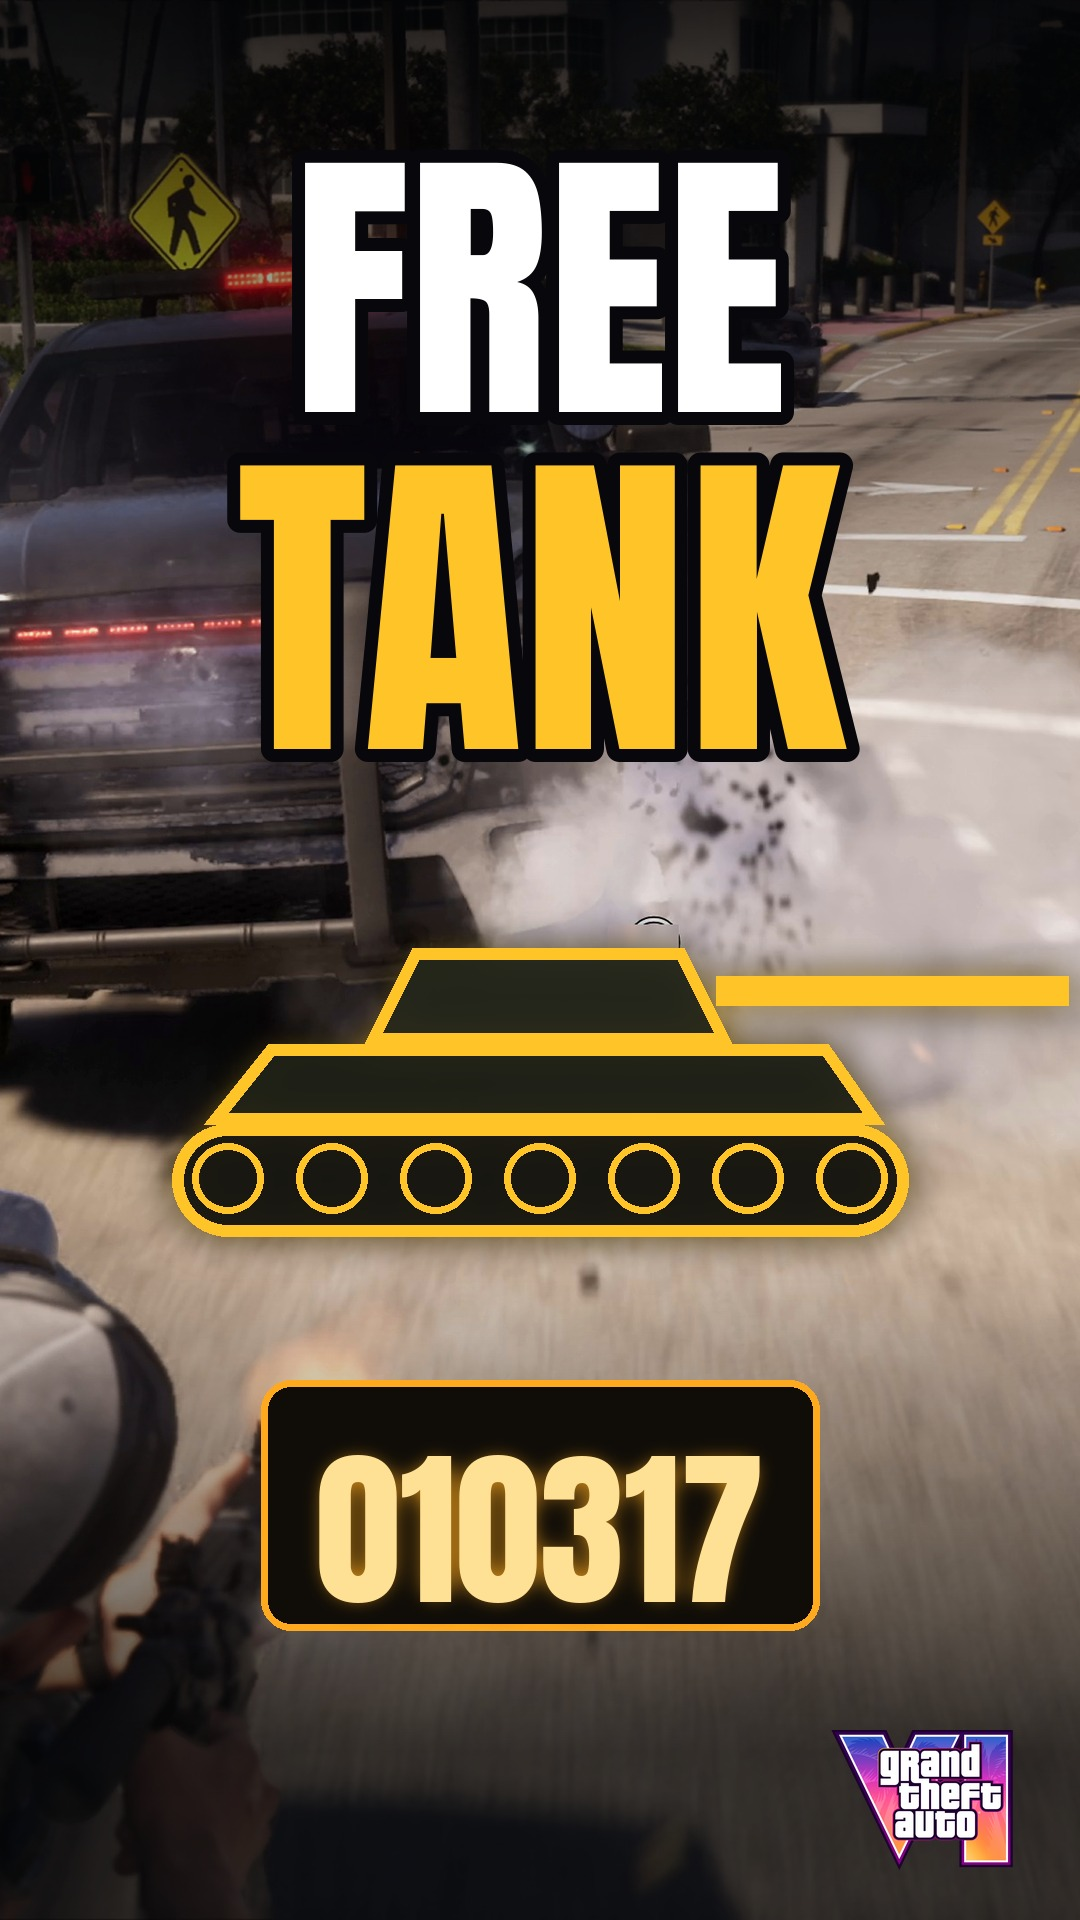
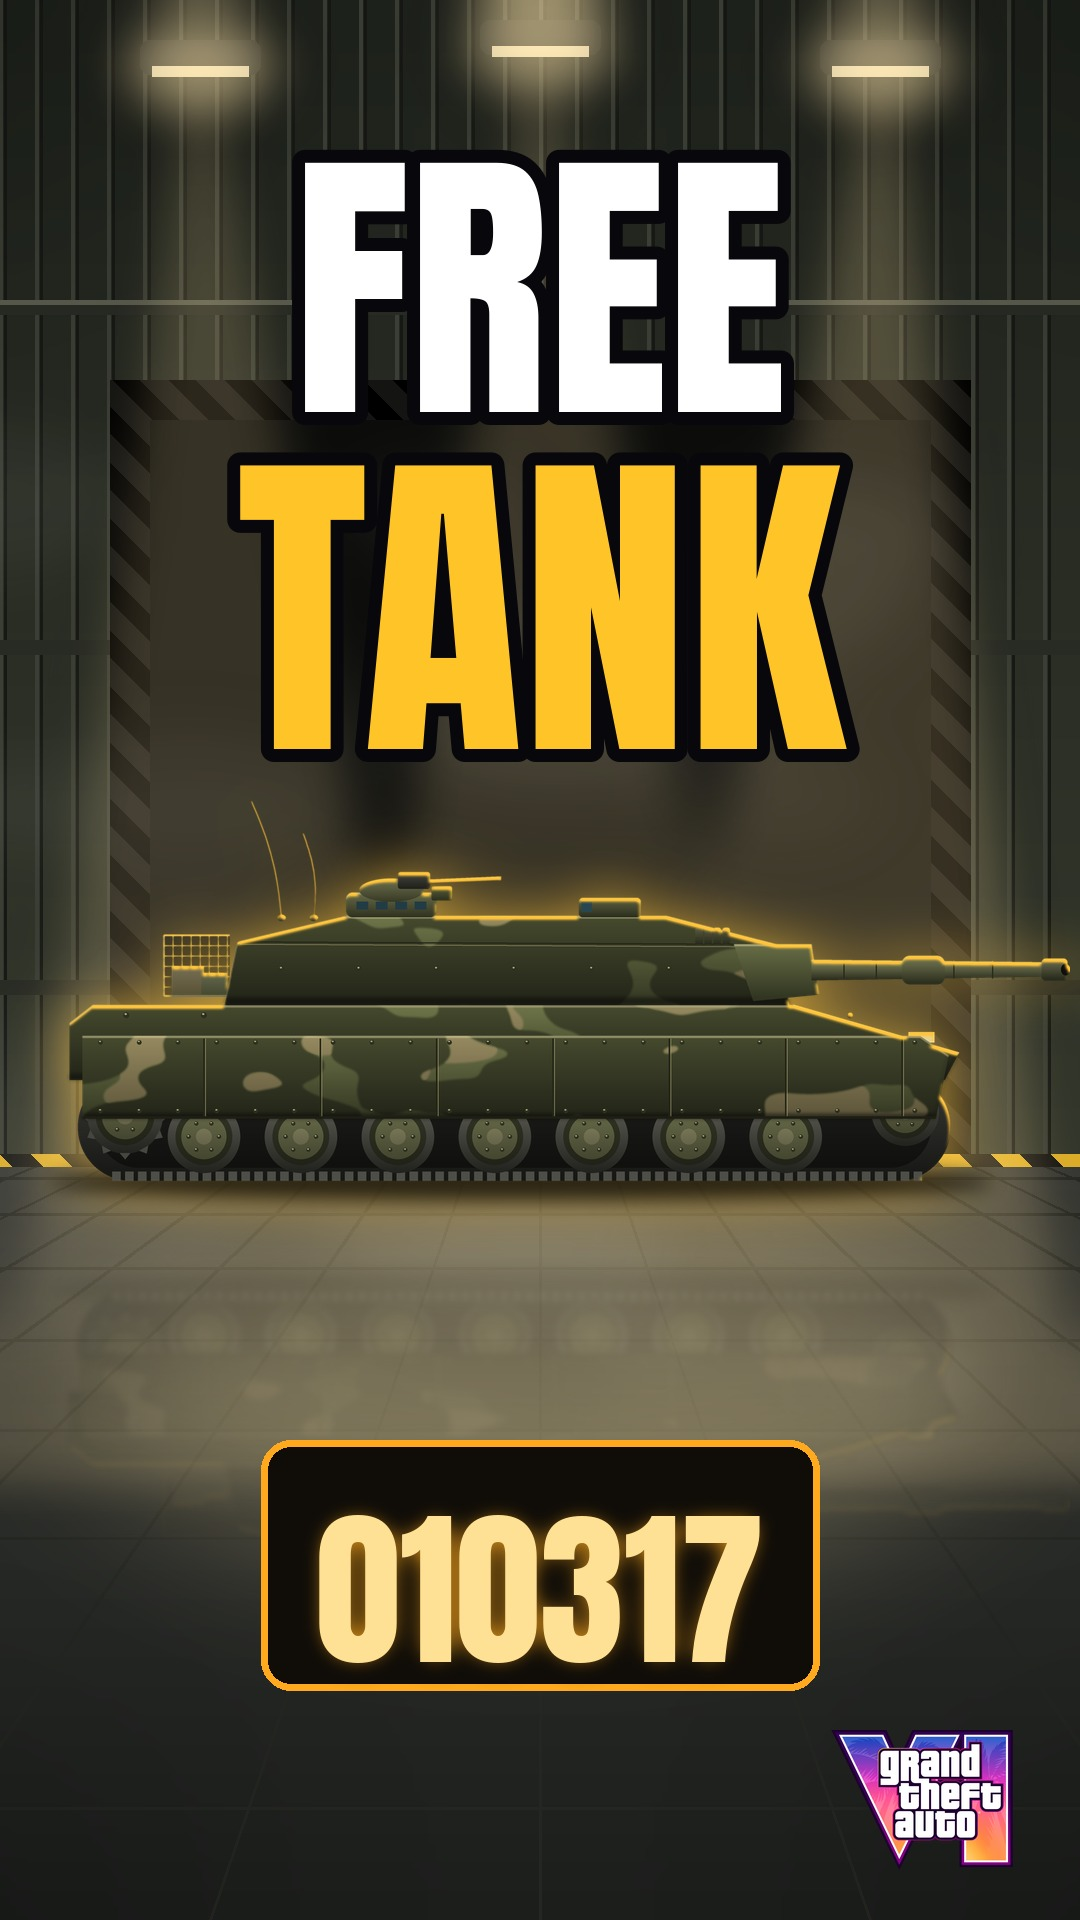
Short 049: detailed tank in our military hangar for all tank scenes; new thumbnail
Claude-Session: https://claude.ai/code/session_01DX4dbwA3bNBQnMT2RJeEkt

diff --git a/production/v049_render.py b/production/v049_render.py
@@ -1,8 +1,11 @@
 """Short 049: GTA 6 free tank (President's Bunker). 'Top Secret file' graphics over official Rockstar clips and
 screenshots: padlock bar, route-line map, amber LED codes synced to the spoken digits, OBSESS -> 085355 morph,
-tank silhouette, hangar reveal, codes recap. Usage: python3 production/v049_render.py <workdir> <out.mp4>"""
+and every tank scene (hook, hangar reveal, ending) set in our own military hangar with the detailed tank
+illustration (tank_art.py + hangar_bg.py): drive-in, cannon fire, sliding doors, roll-in, codes recap. Usage: python3 production/v049_render.py <workdir> <out.mp4>"""
 import sys, json, math, subprocess
 from PIL import Image, ImageDraw, ImageFont, ImageEnhance, ImageFilter
+import random
+sys.path.insert(0, '/home/user/Adds/production'); import hangar_bg as hb
 
 WD, OUT = sys.argv[1], sys.argv[2]
 W, H, FPS = 1080, 1920, 30
@@ -32,6 +35,34 @@ DARK = Image.new('RGB', (W, H), (14, 16, 12)); dd = ImageDraw.Draw(DARK)
 for y in range(0, H, 6): dd.line([(0, y), (W, y)], fill=(18, 21, 15))       # faint scanlines
 for x in range(0, W, 90): dd.line([(x, 0), (x, H)], fill=(22, 26, 18))      # grid = classified-file texture
 DARK = DARK.filter(ImageFilter.GaussianBlur(0.6))
+HANGAR = hb.base(); HANGAR_DIM = Image.blend(HANGAR, Image.new('RGB', (W, H), (14, 16, 12)), 0.45)
+TANK = Image.open(f'{WD}/tank.png').convert('RGBA')
+def tank_w(w): return TANK.resize((int(w), int(w * TANK.height / TANK.width)), Image.LANCZOS)
+T_HOOK, T_PAY, T_END = tank_w(980), tank_w(1040), tank_w(720)
+def put_tank(c, img, x, y, glow=0.55):
+    lay = Image.new('RGBA', (W, H)); lay.alpha_composite(img, (int(x), int(y)))
+    g = lay.getchannel('A').filter(ImageFilter.GaussianBlur(24)).point(lambda v: int(v * glow))
+    c.alpha_composite(Image.merge('RGBA', (Image.new('L', (W, H), 255), Image.new('L', (W, H), 196), Image.new('L', (W, H), 60), g)))
+    c.alpha_composite(hb.reflection(img, x, y)); c.alpha_composite(lay)
+random.seed(3)
+DUST = [dict(x=random.uniform(-0.5, 0.5), vy=random.uniform(-60, -10), vx=random.uniform(-140, -40), r=random.uniform(14, 40), t0=random.uniform(0, 0.8)) for _ in range(40)]
+def dust_cloud(c, cx, cy, k, strength=1.0):
+    lay = Image.new('RGBA', (W, H)); d = ImageDraw.Draw(lay)
+    for p in DUST:
+        q = k - p['t0']
+        if 0 < q < 1.2:
+            x = cx + p['x'] * 400 + p['vx'] * q; y = cy + p['vy'] * q; r = p['r'] * (1 + q)
+            d.ellipse((x - r, y - r, x + r, y + r), fill=(150, 135, 105, int(110 * strength * (1 - q / 1.2))))
+    c.alpha_composite(lay.filter(ImageFilter.GaussianBlur(6)))
+def back_out(x): x = min(max(x, 0), 1); return 1 + 2.7 * (x - 1) ** 3 + 1.7 * (x - 1) ** 2
+def doors(c, open_k):
+    d = ImageDraw.Draw(c)
+    for side in (0, 1):
+        off = open_k * (W / 2 + 20); x0 = -off if side == 0 else W / 2 + off
+        d.rectangle((x0, 0, x0 + W / 2, H), fill=(52, 56, 46))
+        for yy in range(0, H, 70): d.line([(x0, yy), (x0 + W / 2, yy)], fill=(38, 41, 33), width=6)
+        ex0 = x0 + (W / 2 - 40 if side == 0 else 0); d.rectangle((ex0, 0, ex0 + 40, H), fill=(255, 196, 40))
+        for yy in range(0, H, 80): d.polygon([(ex0, yy), (ex0 + 40, yy + 40), (ex0 + 40, yy + 80), (ex0, yy + 40)], fill=(20, 20, 20))
 def clip_frames(path):
     p = subprocess.Popen(['ffmpeg', '-v', 'error', '-i', f'{WD}/{path}', '-f', 'rawvideo', '-pix_fmt', 'rgb24', '-'], stdout=subprocess.PIPE)
     while True:
@@ -55,6 +86,10 @@ def bg_stream():
         elif s['kind'] == 'route':
             ROUTE_T.append((t, t + s['dur'], s['stage']))
             for i in range(n): yield DARK
+        elif s['kind'] == 'hangar':
+            for i in range(n): yield HANGAR
+        elif s['kind'] == 'hangar_dim':
+            for i in range(n): yield HANGAR_DIM
         else:
             for i in range(n): yield DARK
         t += n / FPS
@@ -180,10 +215,24 @@ def overlay(c, beat, t):
                 if said: mk, txt, col = said[-1]; pill(c, txt, 1550, col, 80, t - M[mk])   # only the word being said
             locks(c, t); return
     if beat == 'hook':
-        k = ease(t / 0.35); tank(c, W / 2, 1000, 1.25 * (0.85 + 0.15 * k), GOLD, int(190 + 50 * k))   # visible from frame 1
+        c.alpha_composite(hb.lights(t)); FIRE = LINES[1]['s']
+        k = ease(0.35 + t / 0.9); x = (W - T_HOOK.width) / 2 - (1 - k) * (W + 200)          # already entering on frame 1
+        y = 930 + (3 * math.sin(t * 40) if t > 0.6 else 0)
+        rec = 26 * math.exp(-(t - FIRE) * 10) if t >= FIRE else 0
+        sh = (random.uniform(-14, 14), random.uniform(-10, 10)) if FIRE <= t < FIRE + 0.25 else (0, 0)
+        put_tank(c, T_HOOK, x - rec + sh[0], y + sh[1])
+        if t < 1.3: dust_cloud(c, x + T_HOOK.width * 0.15, y + T_HOOK.height * 0.9, t + 0.3)
+        if t >= FIRE:
+            k2 = t - FIRE; mx, my = x + T_HOOK.width * 0.995 - rec, y + T_HOOK.height * 0.43
+            lay = Image.new('RGBA', (W, H)); dl = ImageDraw.Draw(lay)
+            if k2 < 0.18:
+                r = 120 * (1 - k2 / 0.18) + 40; dl.ellipse((mx - r * .4, my - r * .6, mx + r * 1.6, my + r * .6), fill=(255, 230, 150, 240)); dl.ellipse((mx, my - r * .3, mx + r, my + r * .3), fill=(255, 255, 240, 255))
+            for j in range(10):
+                kk = k2 * (0.6 + j * 0.08); r = 30 + 160 * kk; sx = mx + 60 + 260 * kk * (0.5 + j / 12)
+                dl.ellipse((sx - r, my - r - 40 * kk * j / 5, sx + r, my + r - 40 * kk * j / 5), fill=(190, 185, 170, int(150 * max(0, 1 - k2 / 1.8))))
+            c.alpha_composite(lay.filter(ImageFilter.GaussianBlur(10)))
         pop(c, 'FREE TANK', 210, 420, GOLD, t + 1.0)
         if t >= LINES[2]['s']: pill(c, 'CODE 3 = ???', 690, RED, 66, t - LINES[2]['s'], ang=-3)
-        stamp(c, 'TOP SECRET', 1180, 6, RED, 64, t - 1.0)
     elif beat == 'steps':
         if t < M['island'] - 0.6 or lt < 3.4: pop(c, 'DOWNTOWN', 140, 400, WHITE, lt - 1.2); pill(c, 'WAR MEMORIAL · ASK THE OLD MAN', 590, (20, 90, 160), 44, lt - 1.4)
         if lt >= 3.5: pop(c, 'LITTLE CUBA', 140, 400, GOLD, lt - 3.5)
@@ -220,28 +269,37 @@ def overlay(c, beat, t):
         if t >= M['morph']: led(c, digits_shown('c3', 6, t), 6, 760, letters='OBSESS')
         tag(c, 'OBSESS on a calculator screen · VGC')
     elif beat == 'payoff':
-        if t < M['open']:
+        op = M['open']; ok = ease((t - op) / 0.8) if t >= op else 0
+        c.alpha_composite(hb.lights(t, 0.5 + 0.7 * ok))
+        if t >= op:
+            k = t - op; kr = back_out(k / 1.0); x = (W - T_PAY.width) / 2 - (1 - kr) * (W + 300)
+            bounce = 10 * math.sin((k - 1.0) * 18) * math.exp(-(k - 1.0) * 5) if k > 1.0 else 0
+            y = 1000 - T_PAY.height / 2 + bounce + (2 * math.sin(k * 40) if k < 1.0 else 0)
+            put_tank(c, T_PAY, x, y, 0.6); dust_cloud(c, x + T_PAY.width * 0.2, y + T_PAY.height * 0.9, k, 1.2)
+        doors(c, ok)
+        dh = ImageDraw.Draw(c); fh = I(28); lab = 'WANTED INTEL · GTA 6 SECRETS'; wh = dh.textlength(lab, font=fh)   # header stays above the doors
+        dh.rounded_rectangle(((W - wh) / 2 - 24, 70, (W + wh) / 2 + 24, 122), 26, fill=(220, 35, 45, 225)); dh.text(((W - wh) / 2, 78), lab, font=fh, fill=WHITE)
+        if t < op:
             k = t - M['button']; r = 150 * (1 - 0.12 * math.sin(math.pi * min(1, max(0, (k - 0.3) / 0.25))))
-            d.ellipse((W / 2 - r - 14, 820 - r - 14, W / 2 + r + 14, 820 + r + 14), fill=(40, 40, 40), outline=WHITE, width=6)
-            d.ellipse((W / 2 - r, 820 - r, W / 2 + r, 820 + r), fill=RED); text_c(c, 'BIG RED BUTTON', A(84), 400, WHITE)
+            d = ImageDraw.Draw(c); d.ellipse((W / 2 - r - 14, 900 - r - 14, W / 2 + r + 14, 900 + r + 14), fill=(40, 40, 40), outline=WHITE, width=6)
+            d.ellipse((W / 2 - r, 900 - r, W / 2 + r, 900 + r), fill=RED); text_c(c, 'BIG RED BUTTON', A(84), 400, WHITE)
         else:
-            k = t - M['open']
-            rays = Image.new('RGBA', (W, H)); rd = ImageDraw.Draw(rays)
-            for j in range(14):
-                a = j * math.pi / 7 + k * 0.4; rd.polygon([(W / 2, 960), (W / 2 + 1400 * math.cos(a - 0.08), 960 + 1400 * math.sin(a - 0.08)), (W / 2 + 1400 * math.cos(a + 0.08), 960 + 1400 * math.sin(a + 0.08))], fill=(255, 200, 80, 55))
-            c.alpha_composite(rays.filter(ImageFilter.GaussianBlur(8)))
-            if k < 0.35: c.alpha_composite(Image.new('RGBA', (W, H), (255, 215, 110, int(230 * (1 - k / 0.35)))))
-            tank(c, W / 2, 960, 1.4 * (0.7 + 0.3 * ease(k * 2)), GOLD, 255)
+            k = t - op
+            if k < 0.35: c.alpha_composite(Image.new('RGBA', (W, H), (255, 215, 110, int(220 * (1 - k / 0.35)))))
             pop(c, 'HANGAR OPEN', 150, 400, GOLD, k)
-            if k > 0.5: pill(c, 'TANK + COLD WAR 556 RIFLE', 1180, (30, 110, 50), 54, k - 0.5)
+            if k > 1.1: pill(c, 'TANK + COLD WAR 556 RIFLE', 1290, (30, 110, 50), 54, k - 1.1)
     elif beat == 'end':
-        if lt < 1.8: pop(c, 'LOST IT?', 170, 420, WHITE, lt); pill(c, 'THE BUNKER GIVES YOU ANOTHER', 640, (20, 90, 160), 46, lt - 0.4)
-        if t >= M['forever']:
+        c.alpha_composite(hb.lights(t, 0.5))
+        if t < M['forever']:
+            put_tank(c, T_PAY, (W - T_PAY.width) / 2, 1000 - T_PAY.height / 2, 0.45)
+            pop(c, 'LOST IT?', 170, 420, WHITE, lt); pill(c, 'THE BUNKER GIVES YOU ANOTHER', 640, (20, 90, 160), 46, lt - 0.4)
+        else:
             k = t - M['forever']; pop(c, 'FREE TANKS FOREVER', 120, 400, GOLD, k)
-            d.rounded_rectangle((90, 620, W - 90, 1010), 30, fill=(10, 10, 10, 215), outline=GOLD, width=6)
-            text_c(c, 'ALL 3 CODES', A(64), 650, GOLD, 6)
+            put_tank(c, T_END, (W - T_END.width) / 2, 600 - 40 * (1 - ease(k * 2)), 0.4)
+            d = ImageDraw.Draw(c); d.rounded_rectangle((90, 980, W - 90, 1370), 30, fill=(10, 10, 10, 225), outline=GOLD, width=6)
+            text_c(c, 'ALL 3 CODES', A(64), 1010, GOLD, 6)
             for i, code in enumerate(['010317', '2975', '085355']):
-                text_c(c, f'{i + 1}.  {code}', A(84), 735 + i * 88, (255, 225, 150), 6)
+                text_c(c, f'{i + 1}.  {code}', A(84), 1095 + i * 88, (255, 225, 150), 6)
     if beat not in ('promise',): locks(c, t)
 
 def captions(c, t):

diff --git a/production/thumb_v049.py b/production/thumb_v049.py
@@ -1,32 +1,24 @@
-"""Thumbnail 049 (9:16): official Extended Look shootout frame (police SUV under fire, HUD crosshair removed), gold tank silhouette,
-'FREE TANK', amber LED '010317', official VI logo. Usage: thumb_v049.py <frame.png> <out.jpg>"""
+"""Thumbnail 049 (9:16): our military hangar (hangar_bg.py) with the detailed tank (tank_art.py), 'FREE TANK',
+amber LED '010317', official VI logo. Usage: thumb_v049.py <tank.png> <out.jpg>"""
 import sys
 from PIL import Image, ImageDraw, ImageFont, ImageEnhance, ImageFilter
-SRC, OUT = sys.argv[1], sys.argv[2]; W, H = 1080, 1920
+TANK, OUT = sys.argv[1], sys.argv[2]; W, H = 1080, 1920
 A = lambda n: ImageFont.truetype('/home/user/Adds/remotion-overlays/public/fonts/Anton-Regular.ttf', int(n))
 GOLD, AMBER = (255, 196, 40), (255, 170, 30)
-im = Image.open(SRC).convert('RGB'); cx = int(0.47 * im.width); w = int(im.height * 9 / 16)
-bg = im.crop((cx - w // 2, 0, cx + w // 2, im.height)).resize((W, H), Image.LANCZOS)
-bg = ImageEnhance.Contrast(bg).enhance(1.1); bg = ImageEnhance.Color(bg).enhance(1.15)
-c = bg.convert('RGBA'); sh = Image.new('L', (W, H)); sd = ImageDraw.Draw(sh)
-for y in range(H): sd.line([(0, y), (W, y)], fill=int(170 * (1 - y / 700)) if y < 700 else int(190 * min(1, max(0, (y - 1250) / 500))))
-c = Image.composite(Image.new('RGBA', (W, H), (6, 8, 10, 255)), c, sh); d = ImageDraw.Draw(c)
+sys.path.insert(0, '/home/user/Adds/production'); import hangar_bg as hb
+c = hb.base(stencil=False).convert('RGBA'); c.alpha_composite(hb.lights(1.3, 1.2)); d = ImageDraw.Draw(c)
 def word(t, y, size, fill):
     f = A(size); w = d.textlength(t, font=f)
     if w > W - 60: f = A(size * (W - 60) / w); w = d.textlength(t, font=f)
     d.text(((W - w) / 2 + 8, y + 10), t, font=f, fill=(0, 0, 0, 150)); d.text(((W - w) / 2, y), t, font=f, fill=fill, stroke_width=13, stroke_fill=(8, 8, 12))
 word('FREE', 70, 290, (255, 255, 255)); word('TANK', 360, 330, GOLD)
-# gold tank silhouette with glow
-lay = Image.new('RGBA', (W, H)); ld = ImageDraw.Draw(lay); cx, cy, s = W / 2, 1060, 1.6
-P = lambda pts: [(cx + x * s, cy + y * s) for x, y in pts]
-ld.rounded_rectangle((cx - 230 * s, cy + 40 * s, cx + 230 * s, cy + 110 * s), int(35 * s), fill=(20, 20, 16, 235), outline=GOLD, width=12)
-for i in range(7): ld.ellipse((cx + (-195 + i * 65) * s - 22 * s, cy + 52 * s, cx + (-195 + i * 65) * s + 22 * s, cy + 96 * s), outline=GOLD, width=7)
-ld.polygon(P([(-210, 40), (-170, -10), (180, -10), (215, 40)]), fill=(28, 30, 22, 235), outline=GOLD, width=12)
-ld.polygon(P([(-110, -10), (-80, -70), (90, -70), (120, -10)]), fill=(34, 36, 26, 235), outline=GOLD, width=12)
-ld.rectangle((cx + 110 * s, cy - 52 * s, cx + 330 * s, cy - 34 * s), fill=GOLD)
-glow = lay.filter(ImageFilter.GaussianBlur(18)); c.alpha_composite(glow); c.alpha_composite(lay); d = ImageDraw.Draw(c)
+tank = Image.open(TANK).convert('RGBA'); tank = tank.resize((1060, int(1060 * tank.height / tank.width)), Image.LANCZOS)
+x, y = (W - tank.width) // 2, 1240 - tank.height
+g = Image.new('RGBA', (W, H)); g.alpha_composite(tank, (x, y)); gl = g.getchannel('A').filter(ImageFilter.GaussianBlur(26)).point(lambda v: int(v * .65))
+c.alpha_composite(Image.merge('RGBA', (Image.new('L', (W, H), 255), Image.new('L', (W, H), 196), Image.new('L', (W, H), 60), gl)))
+c.alpha_composite(hb.reflection(tank, x, y)); c.alpha_composite(g); d = ImageDraw.Draw(c)
 # amber LED code panel
-f = A(170); code = '010317'; pw = d.textlength(code, font=f) + 110; x0 = (W - pw) / 2; y0 = 1380
+f = A(170); code = '010317'; pw = d.textlength(code, font=f) + 110; x0 = (W - pw) / 2; y0 = 1440
 d.rounded_rectangle((x0, y0, x0 + pw, y0 + 250), 30, fill=(16, 13, 8, 240), outline=AMBER, width=7)
 g = Image.new('RGBA', (W, H)); ImageDraw.Draw(g).text((x0 + 55, y0 + 22), code, font=f, fill=AMBER + (255,)); c.alpha_composite(g.filter(ImageFilter.GaussianBlur(12)))
 d = ImageDraw.Draw(c); d.text((x0 + 55, y0 + 22), code, font=f, fill=(255, 225, 150))

diff --git a/production/v049_clips.py b/production/v049_clips.py
@@ -8,7 +8,7 @@ def shot(n): return glob.glob(SH+'**/'+n,recursive=True)[0]
 B={b['beat']:b for b in json.load(open('vo.json'))['beats']}
 TAIL=1.2
 # per beat: list of items; durations: 'auto' items share what is left after the fixed ones
-PLAN={'hook':[('clip',EL,847.3,852.8,.55,False,'auto')],                       # shootout, police SUV flips
+PLAN={'hook':[('hangar',None,None,None,None,None,'auto')],                     # our military hangar (tank scene)
  'promise':[('route',0,None,None,None,None,'auto')],
  'steps':[('route',1,None,None,None,None,1.2),('still','Vice_City_10.jpg',.45,None,None,None,2.3),('still','Vice_City_09.jpg',.5,None,None,None,'auto')],
  'code1':[('route',2,None,None,None,None,1.0),('still','Leonida_Keys_01.jpg',.5,None,None,None,'auto')],
@@ -17,8 +17,8 @@ PLAN={'hook':[('clip',EL,847.3,852.8,.55,False,'auto')],                       #
  'code2':[('clip',EL,1336.0,1342.0,.5,False,'auto')],                         # dark office
  'obsess':[('dark',None,None,None,None,None,'auto')],
  'code3':[('route',3,None,None,None,None,1.0),('still','Mount_Kalaga_National_Park_03.jpg',.5,None,None,None,'auto')],
- 'payoff':[('dark',None,None,None,None,None,'auto')],                         # hangar reveal is a graphic (no official bunker footage)
- 'end':[('clip',EL,1545.2,1548.3,.5,False,'auto')]}                           # night skyline
+ 'payoff':[('hangar',None,None,None,None,None,'auto')],                       # hangar doors open, tank rolls in
+ 'end':[('hangar_dim',None,None,None,None,None,'auto')]}                      # dimmed hangar + codes recap
 P=['-http_proxy',os.environ['HTTPS_PROXY'],'-ca_file','/root/.ccr/ca-bundle.crt']
 segs=[]
 for beat,items in PLAN.items():
@@ -34,5 +34,5 @@ for beat,items in PLAN.items():
             print(beat,'clip',round(e-s,2),'->',round(dur,2),'speed',round(1/k,2))
         elif kind=='still': segs.append(dict(beat=beat,kind='still',path=shot(it[1]),cx=it[2],dur=round(dur,3)))
         elif kind=='route': segs.append(dict(beat=beat,kind='route',stage=it[1],dur=round(dur,3)))
-        else: segs.append(dict(beat=beat,kind='dark',dur=round(dur,3)))
+        else: segs.append(dict(beat=beat,kind=kind,dur=round(dur,3)))
 json.dump(segs,open('segs.json','w'),indent=1)

diff --git a/production/hangar_bg.py b/production/hangar_bg.py
@@ -7,7 +7,7 @@ import math, random
 from PIL import Image, ImageDraw, ImageFilter, ImageFont
 W, H = 1080, 1920; FLOOR_Y = 1160; VP = (540, 900)
 ANTON = '/home/user/Adds/remotion-overlays/public/fonts/Anton-Regular.ttf'
-def base():
+def base(stencil=True):
     c = Image.new('RGB', (W, H), (18, 20, 17)); d = ImageDraw.Draw(c)
     for y in range(FLOOR_Y):                                         # back wall: vertical gradient
         k = y / FLOOR_Y; d.line([(0, y), (W, y)], fill=(int(30 + 22 * k), int(34 + 22 * k), int(28 + 16 * k)))
@@ -25,8 +25,9 @@ def base():
     for side in ((fx0 - 40, fy0, fx0, FLOOR_Y), (fx1, fy0, fx1 + 40, FLOOR_Y), (fx0 - 40, fy0 - 40, fx1 + 40, fy0)): md.rectangle(side, fill=255)
     c = Image.composite(stripe, c, m); d = ImageDraw.Draw(c)
     d.rectangle((fx0, fy0, fx1, FLOOR_Y), fill=(12, 13, 11))                        # dark opening behind the tank
-    f = ImageFont.truetype(ANTON, 40); t = 'HANGAR 02  ·  RESTRICTED AREA'; w = d.textlength(t, font=f)
-    d.text(((W - w) / 2, 328), t, font=f, fill=(190, 160, 60))        # stencil sits under the padlock bar
+    if stencil:
+        f = ImageFont.truetype(ANTON, 40); t = 'HANGAR 02  ·  RESTRICTED AREA'; w = d.textlength(t, font=f)
+        d.text(((W - w) / 2, 328), t, font=f, fill=(190, 160, 60))        # stencil sits under the padlock bar
     # concrete floor with perspective joints
     for y in range(FLOOR_Y, H):
         k = (y - FLOOR_Y) / (H - FLOOR_Y); d.line([(0, y), (W, y)], fill=(int(54 - 26 * k), int(56 - 26 * k), int(52 - 24 * k)))

diff --git a/production/v049_mix.py b/production/v049_mix.py
@@ -42,6 +42,11 @@ for ln in meta['lines']:
 for cid,last in [('c1',5),('c2',3),('c3',5)]: clunk(M[f'{cid}_{last}']+0.35)
 for i in range(6): click(M['obsess']+i*0.09)
 sting(M['alien']-0.05); impact(M['open']); clunk(M['tank1'],0.35)
+FIRE=meta['lines'][1]['s']; impact(FIRE,0.9)                        # cannon shot in the hook
+def rumble(at,dur,g):
+    n=int(dur*SR); x=np.arange(n)/SR; w=np.convolve(rng.standard_normal(n),np.ones(300)/300,'same')
+    add(sfx,g*(0.5*np.sin(2*np.pi*42*x)*(1+0.3*np.sin(2*np.pi*9*x))+0.6*w/np.abs(w).max())*np.minimum(x/0.15,1)*np.minimum((dur-x)/0.3,1),at)
+rumble(0.0,1.1,0.35); rumble(M['open']+0.05,1.2,0.4)              # tank engine on drive-in and roll-in
 duck_music=np.ones(N)
 for key in ['c1_0','c2_0','c3_0','open']:                # half-second music dropout before reveals
     a=int((M[key]-0.5)*SR); b=int(M[key]*SR); duck_music[a:b]=np.minimum(duck_music[a:b],0.15)

diff --git a/scripts/049-gta6-free-tank-bunker.md b/scripts/049-gta6-free-tank-bunker.md
@@ -115,3 +115,10 @@ Footage: official Rockstar Games trailers and screenshots.
 ```
 **Tags:** GTA 6, GTA VI, GTA 6 tank, GTA 6 free tank, GTA 6 bunker, GTA 6 president bunker, GTA 6 bunker code, 010317, GTA 6 secret codes, GTA 6 easter egg, Sharktooth Island, Big Pine, Cold War 556, Grand Theft Auto 6
 **Pinned comment:** `All codes: 010317 · 2975 · 085355 🔐 Which stop took you longest?`
+
+## Update (28 Nov 2026): new tank + hangar
+- The cartoon tank is replaced by a detailed illustration (`production/tank_art.py`).
+- Every tank scene (hook, hangar reveal, ending) now takes place in our own military hangar (`production/hangar_bg.py`), not game footage: floodlights, haze, concrete floor and reflection.
+- Hook: the tank drives in and fires on "stop guessing" (recoil, muzzle flash, smoke, shake, cannon boom). Payoff: striped doors slide open and the tank rolls in with dust and a bounce. Ending: dimmed hangar, tank above the 3-codes card.
+- Audio: cannon shot + engine rumble added (`v049_mix.py`). Thumbnail rebuilt in the hangar (`thumb_v049.py`).
+- Video: `production/v049-gta6-free-tank.mp4` (53.6 s, app-ready).
